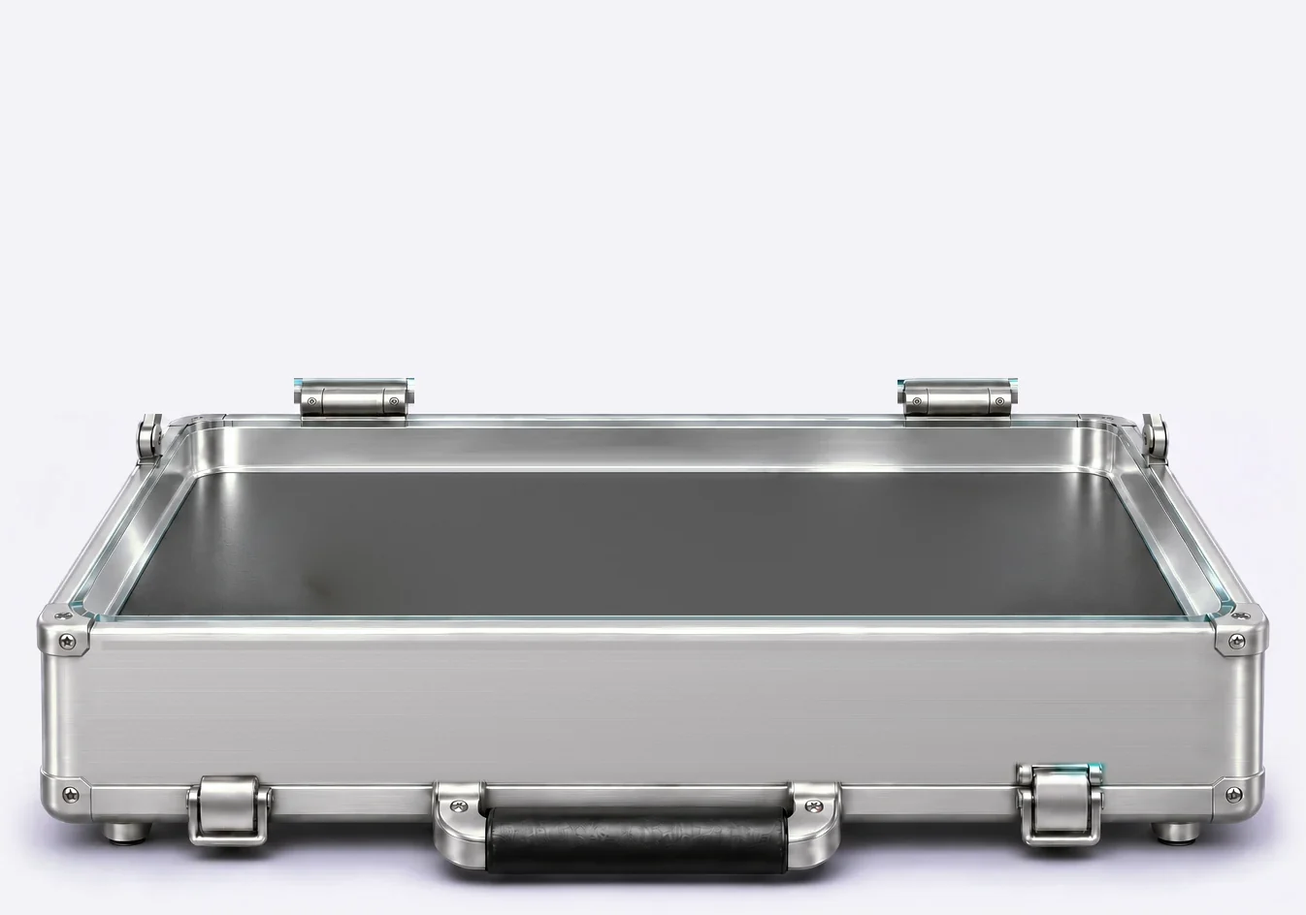
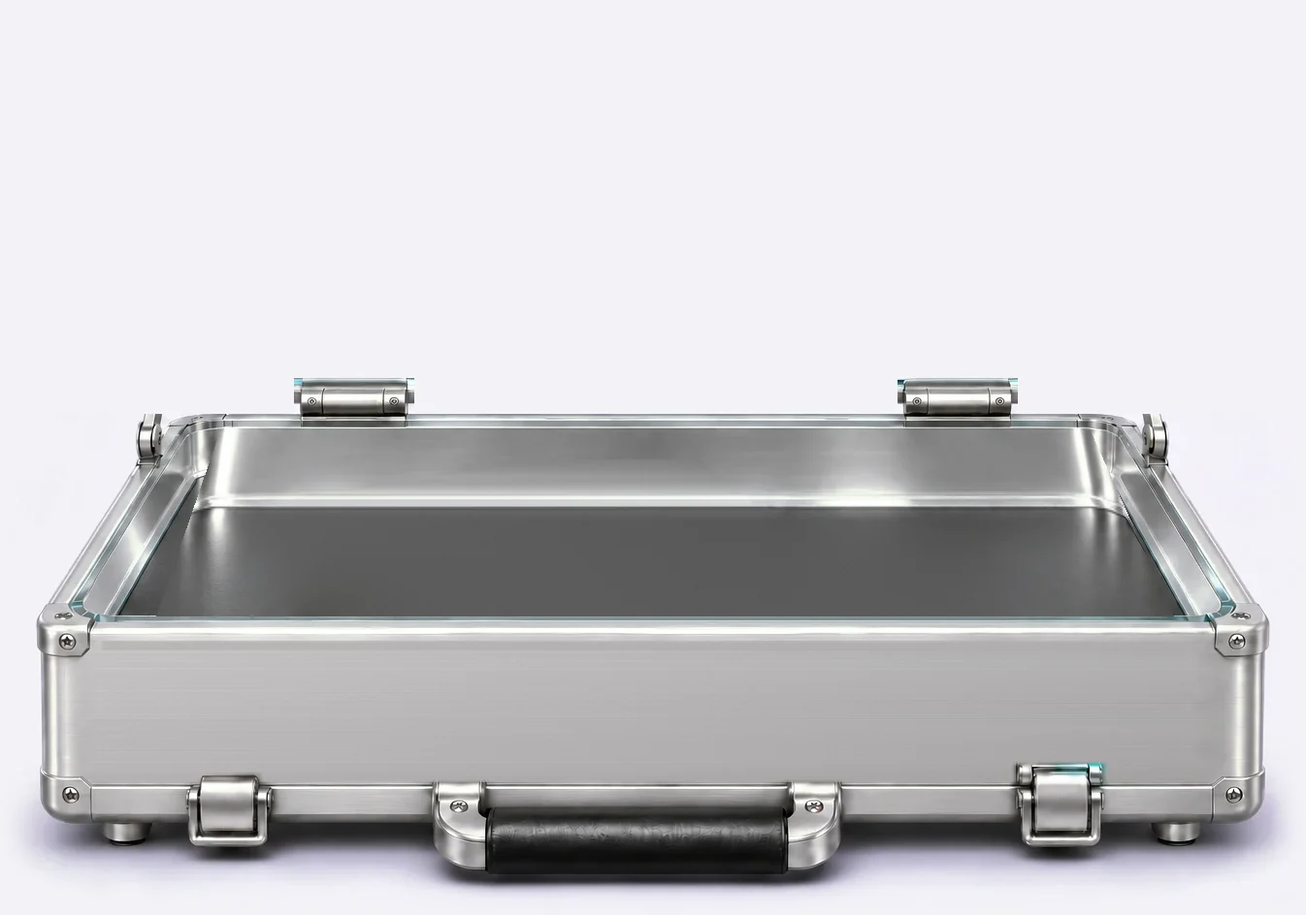
for-influencers calculator: a deeper tray, the notes lie low in it
Claude-Session: https://claude.ai/code/session_01JhZ5DB5vxLeXKkYquUUDqb

Changed region(s): [[0.1248, 0.4608, 0.8737, 0.6758]]

diff --git a/site/for-influencers/index.html b/site/for-influencers/index.html
@@ -1022,7 +1022,7 @@ html.tq-mnav-on .tq-lfab { opacity: 0; pointer-events: none; transform: scale(.8
   background: linear-gradient(105deg, rgba(255,255,255,0) 35%, rgba(255,255,255,.55) 50%, rgba(255,255,255,0) 65%) -120% 0 / 60% 100% no-repeat; mix-blend-mode: screen; }
 .inf-calc.is-armed.is-open .inf-case2__scene::after { animation: inf-case2-glint 1.1s ease-out 1s both; }
 @keyframes inf-case2-glint { 0% { opacity: 1; background-position: -120% 0; } 100% { opacity: 0; background-position: 260% 0; } }
-.inf-case2__floor { position: absolute; inset: 0; pointer-events: none; }
+.inf-case2__floor { position: absolute; inset: 0; pointer-events: none; clip-path: inset(0 0 32.733% 0); }
 .inf-calc__stack { position: absolute; width: 28.67%; height: auto; opacity: 0; transform: translateY(-70%); filter: drop-shadow(0 .45cqw .5cqw rgba(0,0,0,.45));
   transition: transform .6s cubic-bezier(.3,1.35,.5,1), opacity .25s ease; }
 .inf-calc__stack.is-on { opacity: 1; transform: none; }
@@ -1591,8 +1591,8 @@ html.tq-mnav-on .tq-lfab { opacity: 0; pointer-events: none; transform: scale(.8
     <!-- Earnings calculator (owner's design, November 2026: tools/influencers/numbers-src/case2-*.webp; it replaced the
          glass-case calculator): a metal briefcase with a glass lid, closed at first; when the block comes into view its
          lid lifts (the closed lid folds up to its hinges, the standing one unfolds from them) and the notes drop in, one
-         stack per ~67 clients, more as the slider goes up, spread over the floor: two layers, then a third on the
-         front rows only (nothing above the back wall) (tools/influencers/case2.py makes the layers and the stack).
+         stack per ~67 clients, more as the slider goes up, spread over the floor of a deep tray: two layers, then a
+         third on the front rows only; the front row partly behind the front wall (tools/influencers/case2.py makes the layers and the stack).
          On its front face the live controls (orbit.js) in the design's light-metal look, the slider's knob softly
          glowing. About three quarters of a screen tall. Phones: the case, then the controls as a card under it. -->
     <section id="calc" class="inf-calc" data-calc-case data-case2 data-screen-label="Earnings calculator">
@@ -1600,9 +1600,9 @@ html.tq-mnav-on .tq-lfab { opacity: 0; pointer-events: none; transform: scale(.8
         <h2 class="inf-calc__h2 tq-h2" data-fitw>How much could you <span class="inf-calc__red">earn?</span></h2>
         <div class="inf-calc__case">
           <div class="inf-case2__scene">
-            <img class="inf-case2__base" src="../assets/influencers/case2-base-1346.webp?v=217dc8d227" srcset="../assets/influencers/case2-base-900.webp?v=546f27cba2 900w, ../assets/influencers/case2-base-1346.webp?v=217dc8d227 1346w" sizes="(max-width: 1280px) 100vw, 1136px" width="1346" height="944" alt="A metal briefcase with a glass lid, stacks of notes inside" loading="lazy" decoding="async">
+            <img class="inf-case2__base" src="../assets/influencers/case2-base-1346.webp?v=8cc328df33" srcset="../assets/influencers/case2-base-900.webp?v=d83be4ee6a 900w, ../assets/influencers/case2-base-1346.webp?v=8cc328df33 1346w" sizes="(max-width: 1280px) 100vw, 1136px" width="1346" height="944" alt="A metal briefcase with a glass lid, stacks of notes inside" loading="lazy" decoding="async">
             <img class="inf-case2__lid" src="../assets/influencers/case2-lid-1346.webp?v=b988e5b719" srcset="../assets/influencers/case2-lid-900.webp?v=1c4f2ea3fc 900w, ../assets/influencers/case2-lid-1346.webp?v=b988e5b719 1346w" sizes="(max-width: 1280px) 100vw, 1136px" width="1346" height="944" alt="" loading="lazy" decoding="async">
-            <div class="inf-case2__floor" aria-hidden="true"><img class="inf-calc__stack" data-calc-stack src="../assets/influencers/case2-stack.webp?v=aebb4e77f2" width="454" height="128" alt="" loading="lazy" decoding="async" style="left: 51.634%; top: 55.932%; z-index: 30;"><img class="inf-calc__stack" data-calc-stack src="../assets/influencers/case2-stack.webp?v=aebb4e77f2" width="454" height="128" alt="" loading="lazy" decoding="async" style="left: 15.230%; top: 48.517%; z-index: 10;"><img class="inf-calc__stack" data-calc-stack src="../assets/influencers/case2-stack.webp?v=aebb4e77f2" width="454" height="128" alt="" loading="lazy" decoding="async" style="left: 13.744%; top: 55.932%; z-index: 30;"><img class="inf-calc__stack" data-calc-stack src="../assets/influencers/case2-stack.webp?v=aebb4e77f2" width="454" height="128" alt="" loading="lazy" decoding="async" style="left: 49.406%; top: 48.517%; z-index: 10;"><img class="inf-calc__stack" data-calc-stack src="../assets/influencers/case2-stack.webp?v=aebb4e77f2" width="454" height="128" alt="" loading="lazy" decoding="async" style="left: 19.688%; top: 52.225%; z-index: 20;"><img class="inf-calc__stack" data-calc-stack src="../assets/influencers/case2-stack.webp?v=aebb4e77f2" width="454" height="128" alt="" loading="lazy" decoding="async" style="left: 55.349%; top: 52.225%; z-index: 20;"><img class="inf-calc__stack" data-calc-stack src="../assets/influencers/case2-stack.webp?v=aebb4e77f2" width="454" height="128" alt="" loading="lazy" decoding="async" style="left: 51.634%; top: 52.648%; z-index: 31;"><img class="inf-calc__stack" data-calc-stack src="../assets/influencers/case2-stack.webp?v=aebb4e77f2" width="454" height="128" alt="" loading="lazy" decoding="async" style="left: 15.230%; top: 45.233%; z-index: 11;"><img class="inf-calc__stack" data-calc-stack src="../assets/influencers/case2-stack.webp?v=aebb4e77f2" width="454" height="128" alt="" loading="lazy" decoding="async" style="left: 13.744%; top: 52.648%; z-index: 31;"><img class="inf-calc__stack" data-calc-stack src="../assets/influencers/case2-stack.webp?v=aebb4e77f2" width="454" height="128" alt="" loading="lazy" decoding="async" style="left: 55.349%; top: 48.941%; z-index: 21;"><img class="inf-calc__stack" data-calc-stack src="../assets/influencers/case2-stack.webp?v=aebb4e77f2" width="454" height="128" alt="" loading="lazy" decoding="async" style="left: 49.406%; top: 45.233%; z-index: 11;"><img class="inf-calc__stack" data-calc-stack src="../assets/influencers/case2-stack.webp?v=aebb4e77f2" width="454" height="128" alt="" loading="lazy" decoding="async" style="left: 19.688%; top: 48.941%; z-index: 21;"><img class="inf-calc__stack" data-calc-stack src="../assets/influencers/case2-stack.webp?v=aebb4e77f2" width="454" height="128" alt="" loading="lazy" decoding="async" style="left: 51.634%; top: 49.364%; z-index: 32;"><img class="inf-calc__stack" data-calc-stack src="../assets/influencers/case2-stack.webp?v=aebb4e77f2" width="454" height="128" alt="" loading="lazy" decoding="async" style="left: 13.744%; top: 49.364%; z-index: 32;"><img class="inf-calc__stack" data-calc-stack src="../assets/influencers/case2-stack.webp?v=aebb4e77f2" width="454" height="128" alt="" loading="lazy" decoding="async" style="left: 55.349%; top: 45.657%; z-index: 22;"></div>
+            <div class="inf-case2__floor" aria-hidden="true"><img class="inf-calc__stack" data-calc-stack src="../assets/influencers/case2-stack.webp?v=aebb4e77f2" width="454" height="128" alt="" loading="lazy" decoding="async" style="left: 51.634%; top: 58.157%; z-index: 30;"><img class="inf-calc__stack" data-calc-stack src="../assets/influencers/case2-stack.webp?v=aebb4e77f2" width="454" height="128" alt="" loading="lazy" decoding="async" style="left: 15.230%; top: 52.966%; z-index: 10;"><img class="inf-calc__stack" data-calc-stack src="../assets/influencers/case2-stack.webp?v=aebb4e77f2" width="454" height="128" alt="" loading="lazy" decoding="async" style="left: 13.744%; top: 58.157%; z-index: 30;"><img class="inf-calc__stack" data-calc-stack src="../assets/influencers/case2-stack.webp?v=aebb4e77f2" width="454" height="128" alt="" loading="lazy" decoding="async" style="left: 49.406%; top: 52.966%; z-index: 10;"><img class="inf-calc__stack" data-calc-stack src="../assets/influencers/case2-stack.webp?v=aebb4e77f2" width="454" height="128" alt="" loading="lazy" decoding="async" style="left: 19.688%; top: 55.614%; z-index: 20;"><img class="inf-calc__stack" data-calc-stack src="../assets/influencers/case2-stack.webp?v=aebb4e77f2" width="454" height="128" alt="" loading="lazy" decoding="async" style="left: 55.349%; top: 55.614%; z-index: 20;"><img class="inf-calc__stack" data-calc-stack src="../assets/influencers/case2-stack.webp?v=aebb4e77f2" width="454" height="128" alt="" loading="lazy" decoding="async" style="left: 51.634%; top: 54.873%; z-index: 31;"><img class="inf-calc__stack" data-calc-stack src="../assets/influencers/case2-stack.webp?v=aebb4e77f2" width="454" height="128" alt="" loading="lazy" decoding="async" style="left: 15.230%; top: 49.682%; z-index: 11;"><img class="inf-calc__stack" data-calc-stack src="../assets/influencers/case2-stack.webp?v=aebb4e77f2" width="454" height="128" alt="" loading="lazy" decoding="async" style="left: 13.744%; top: 54.873%; z-index: 31;"><img class="inf-calc__stack" data-calc-stack src="../assets/influencers/case2-stack.webp?v=aebb4e77f2" width="454" height="128" alt="" loading="lazy" decoding="async" style="left: 55.349%; top: 52.331%; z-index: 21;"><img class="inf-calc__stack" data-calc-stack src="../assets/influencers/case2-stack.webp?v=aebb4e77f2" width="454" height="128" alt="" loading="lazy" decoding="async" style="left: 49.406%; top: 49.682%; z-index: 11;"><img class="inf-calc__stack" data-calc-stack src="../assets/influencers/case2-stack.webp?v=aebb4e77f2" width="454" height="128" alt="" loading="lazy" decoding="async" style="left: 19.688%; top: 52.331%; z-index: 21;"><img class="inf-calc__stack" data-calc-stack src="../assets/influencers/case2-stack.webp?v=aebb4e77f2" width="454" height="128" alt="" loading="lazy" decoding="async" style="left: 51.634%; top: 51.589%; z-index: 32;"><img class="inf-calc__stack" data-calc-stack src="../assets/influencers/case2-stack.webp?v=aebb4e77f2" width="454" height="128" alt="" loading="lazy" decoding="async" style="left: 13.744%; top: 51.589%; z-index: 32;"><img class="inf-calc__stack" data-calc-stack src="../assets/influencers/case2-stack.webp?v=aebb4e77f2" width="454" height="128" alt="" loading="lazy" decoding="async" style="left: 55.349%; top: 49.047%; z-index: 22;"></div>
             <img class="inf-case2__shut" src="../assets/influencers/case2-shut-1346.webp?v=e4b7aca74a" srcset="../assets/influencers/case2-shut-900.webp?v=bfddbb0865 900w, ../assets/influencers/case2-shut-1346.webp?v=e4b7aca74a 1346w" sizes="(max-width: 1280px) 100vw, 1136px" width="1346" height="944" alt="" loading="lazy" decoding="async">
           </div>
           <div class="inf-calc__plate">

diff --git a/tools/i18n/influencers.html b/tools/i18n/influencers.html
@@ -258,8 +258,8 @@
     <!-- Earnings calculator (owner's design, November 2026: tools/influencers/numbers-src/case2-*.webp; it replaced the
          glass-case calculator): a metal briefcase with a glass lid, closed at first; when the block comes into view its
          lid lifts (the closed lid folds up to its hinges, the standing one unfolds from them) and the notes drop in, one
-         stack per ~67 clients, more as the slider goes up, spread over the floor: two layers, then a third on the
-         front rows only (nothing above the back wall) (tools/influencers/case2.py makes the layers and the stack).
+         stack per ~67 clients, more as the slider goes up, spread over the floor of a deep tray: two layers, then a
+         third on the front rows only; the front row partly behind the front wall (tools/influencers/case2.py makes the layers and the stack).
          On its front face the live controls (orbit.js) in the design's light-metal look, the slider's knob softly
          glowing. About three quarters of a screen tall. Phones: the case, then the controls as a card under it. -->
     <section id="calc" class="inf-calc" data-calc-case data-case2 data-screen-label="Earnings calculator">
@@ -269,7 +269,7 @@
           <div class="inf-case2__scene">
             <img class="inf-case2__base" src="{{root}}assets/influencers/case2-base-1346.webp" srcset="{{root}}assets/influencers/case2-base-900.webp 900w, {{root}}assets/influencers/case2-base-1346.webp 1346w" sizes="(max-width: 1280px) 100vw, 1136px" width="1346" height="944" alt="{{@inf.calc.alt}}" loading="lazy" decoding="async">
             <img class="inf-case2__lid" src="{{root}}assets/influencers/case2-lid-1346.webp" srcset="{{root}}assets/influencers/case2-lid-900.webp 900w, {{root}}assets/influencers/case2-lid-1346.webp 1346w" sizes="(max-width: 1280px) 100vw, 1136px" width="1346" height="944" alt="" loading="lazy" decoding="async">
-            <div class="inf-case2__floor" aria-hidden="true"><img class="inf-calc__stack" data-calc-stack src="{{root}}assets/influencers/case2-stack.webp" width="454" height="128" alt="" loading="lazy" decoding="async" style="left: 51.634%; top: 55.932%; z-index: 30;"><img class="inf-calc__stack" data-calc-stack src="{{root}}assets/influencers/case2-stack.webp" width="454" height="128" alt="" loading="lazy" decoding="async" style="left: 15.230%; top: 48.517%; z-index: 10;"><img class="inf-calc__stack" data-calc-stack src="{{root}}assets/influencers/case2-stack.webp" width="454" height="128" alt="" loading="lazy" decoding="async" style="left: 13.744%; top: 55.932%; z-index: 30;"><img class="inf-calc__stack" data-calc-stack src="{{root}}assets/influencers/case2-stack.webp" width="454" height="128" alt="" loading="lazy" decoding="async" style="left: 49.406%; top: 48.517%; z-index: 10;"><img class="inf-calc__stack" data-calc-stack src="{{root}}assets/influencers/case2-stack.webp" width="454" height="128" alt="" loading="lazy" decoding="async" style="left: 19.688%; top: 52.225%; z-index: 20;"><img class="inf-calc__stack" data-calc-stack src="{{root}}assets/influencers/case2-stack.webp" width="454" height="128" alt="" loading="lazy" decoding="async" style="left: 55.349%; top: 52.225%; z-index: 20;"><img class="inf-calc__stack" data-calc-stack src="{{root}}assets/influencers/case2-stack.webp" width="454" height="128" alt="" loading="lazy" decoding="async" style="left: 51.634%; top: 52.648%; z-index: 31;"><img class="inf-calc__stack" data-calc-stack src="{{root}}assets/influencers/case2-stack.webp" width="454" height="128" alt="" loading="lazy" decoding="async" style="left: 15.230%; top: 45.233%; z-index: 11;"><img class="inf-calc__stack" data-calc-stack src="{{root}}assets/influencers/case2-stack.webp" width="454" height="128" alt="" loading="lazy" decoding="async" style="left: 13.744%; top: 52.648%; z-index: 31;"><img class="inf-calc__stack" data-calc-stack src="{{root}}assets/influencers/case2-stack.webp" width="454" height="128" alt="" loading="lazy" decoding="async" style="left: 55.349%; top: 48.941%; z-index: 21;"><img class="inf-calc__stack" data-calc-stack src="{{root}}assets/influencers/case2-stack.webp" width="454" height="128" alt="" loading="lazy" decoding="async" style="left: 49.406%; top: 45.233%; z-index: 11;"><img class="inf-calc__stack" data-calc-stack src="{{root}}assets/influencers/case2-stack.webp" width="454" height="128" alt="" loading="lazy" decoding="async" style="left: 19.688%; top: 48.941%; z-index: 21;"><img class="inf-calc__stack" data-calc-stack src="{{root}}assets/influencers/case2-stack.webp" width="454" height="128" alt="" loading="lazy" decoding="async" style="left: 51.634%; top: 49.364%; z-index: 32;"><img class="inf-calc__stack" data-calc-stack src="{{root}}assets/influencers/case2-stack.webp" width="454" height="128" alt="" loading="lazy" decoding="async" style="left: 13.744%; top: 49.364%; z-index: 32;"><img class="inf-calc__stack" data-calc-stack src="{{root}}assets/influencers/case2-stack.webp" width="454" height="128" alt="" loading="lazy" decoding="async" style="left: 55.349%; top: 45.657%; z-index: 22;"></div>
+            <div class="inf-case2__floor" aria-hidden="true"><img class="inf-calc__stack" data-calc-stack src="{{root}}assets/influencers/case2-stack.webp" width="454" height="128" alt="" loading="lazy" decoding="async" style="left: 51.634%; top: 58.157%; z-index: 30;"><img class="inf-calc__stack" data-calc-stack src="{{root}}assets/influencers/case2-stack.webp" width="454" height="128" alt="" loading="lazy" decoding="async" style="left: 15.230%; top: 52.966%; z-index: 10;"><img class="inf-calc__stack" data-calc-stack src="{{root}}assets/influencers/case2-stack.webp" width="454" height="128" alt="" loading="lazy" decoding="async" style="left: 13.744%; top: 58.157%; z-index: 30;"><img class="inf-calc__stack" data-calc-stack src="{{root}}assets/influencers/case2-stack.webp" width="454" height="128" alt="" loading="lazy" decoding="async" style="left: 49.406%; top: 52.966%; z-index: 10;"><img class="inf-calc__stack" data-calc-stack src="{{root}}assets/influencers/case2-stack.webp" width="454" height="128" alt="" loading="lazy" decoding="async" style="left: 19.688%; top: 55.614%; z-index: 20;"><img class="inf-calc__stack" data-calc-stack src="{{root}}assets/influencers/case2-stack.webp" width="454" height="128" alt="" loading="lazy" decoding="async" style="left: 55.349%; top: 55.614%; z-index: 20;"><img class="inf-calc__stack" data-calc-stack src="{{root}}assets/influencers/case2-stack.webp" width="454" height="128" alt="" loading="lazy" decoding="async" style="left: 51.634%; top: 54.873%; z-index: 31;"><img class="inf-calc__stack" data-calc-stack src="{{root}}assets/influencers/case2-stack.webp" width="454" height="128" alt="" loading="lazy" decoding="async" style="left: 15.230%; top: 49.682%; z-index: 11;"><img class="inf-calc__stack" data-calc-stack src="{{root}}assets/influencers/case2-stack.webp" width="454" height="128" alt="" loading="lazy" decoding="async" style="left: 13.744%; top: 54.873%; z-index: 31;"><img class="inf-calc__stack" data-calc-stack src="{{root}}assets/influencers/case2-stack.webp" width="454" height="128" alt="" loading="lazy" decoding="async" style="left: 55.349%; top: 52.331%; z-index: 21;"><img class="inf-calc__stack" data-calc-stack src="{{root}}assets/influencers/case2-stack.webp" width="454" height="128" alt="" loading="lazy" decoding="async" style="left: 49.406%; top: 49.682%; z-index: 11;"><img class="inf-calc__stack" data-calc-stack src="{{root}}assets/influencers/case2-stack.webp" width="454" height="128" alt="" loading="lazy" decoding="async" style="left: 19.688%; top: 52.331%; z-index: 21;"><img class="inf-calc__stack" data-calc-stack src="{{root}}assets/influencers/case2-stack.webp" width="454" height="128" alt="" loading="lazy" decoding="async" style="left: 51.634%; top: 51.589%; z-index: 32;"><img class="inf-calc__stack" data-calc-stack src="{{root}}assets/influencers/case2-stack.webp" width="454" height="128" alt="" loading="lazy" decoding="async" style="left: 13.744%; top: 51.589%; z-index: 32;"><img class="inf-calc__stack" data-calc-stack src="{{root}}assets/influencers/case2-stack.webp" width="454" height="128" alt="" loading="lazy" decoding="async" style="left: 55.349%; top: 49.047%; z-index: 22;"></div>
             <img class="inf-case2__shut" src="{{root}}assets/influencers/case2-shut-1346.webp" srcset="{{root}}assets/influencers/case2-shut-900.webp 900w, {{root}}assets/influencers/case2-shut-1346.webp 1346w" sizes="(max-width: 1280px) 100vw, 1136px" width="1346" height="944" alt="" loading="lazy" decoding="async">
           </div>
           <div class="inf-calc__plate">

diff --git a/site/assets/css/influencers.css b/site/assets/css/influencers.css
@@ -196,9 +196,10 @@
 @keyframes inf-case2-glint { 0% { opacity: 1; background-position: -120% 0; } 100% { opacity: 0; background-position: 260% 0; } }
 /* the notes: each stack in its place (left/top in % of the frame): .85 of the design's stack, three rows over the whole
    floor, two stacks a row, then a second layer, then a third on the front and middle rows only (owner's wish: spread
-   out, nothing over the back wall; and then 50% more notes);
+   out, nothing over the back wall; and then 50% more notes). The tray is drawn deeper (case2.py: the back wall 40px
+   taller, the floor lower), the stacks on its floor, the front row's feet hidden by the front wall;
    the back row behind, the ones on top above */
-.inf-case2__floor { position: absolute; inset: 0; pointer-events: none; }
+.inf-case2__floor { position: absolute; inset: 0; pointer-events: none; clip-path: inset(0 0 32.733% 0); }   /* nothing below the glass lip (y 715 of 944): the front row partly behind the front wall */
 .inf-calc__stack { position: absolute; width: 28.67%; height: auto; opacity: 0; transform: translateY(-70%); filter: drop-shadow(0 .45cqw .5cqw rgba(0,0,0,.45));
   transition: transform .6s cubic-bezier(.3,1.35,.5,1), opacity .25s ease; }
 .inf-calc__stack.is-on { opacity: 1; transform: none; }

diff --git a/tools/influencers/case2.py b/tools/influencers/case2.py
@@ -157,6 +157,25 @@ ImageDraw.Draw(sm).polygon(dst, fill=255)
 sm = sm.filter(ImageFilter.GaussianBlur(.8))
 shut = np.dstack([np.asarray(shut).astype(float), np.asarray(sm).astype(float)])
 
+# a deeper tray (owner's wish: the notes, up to three layers, sit low enough for the lid to shut). Inside the
+# trapezoid between the floor's side edges (extended up to the back rim's foot, y 522; their lines: x = 305 - .346 (y -
+# 572) on the left, 1240 + .449 (y - 572) on the right) down to the glass lip (715): the back wall 40px taller (its 50
+# rows drawn on 90), the floor 40px further down (its front 40 rows behind the front wall). Each point maps along the
+# trapezoid's own width, so its sides stay where they are; the rims, the side walls and all else stay as drawn.
+TY0, TY1, WALL, DEEPEN = 522, 715, 50, 40
+Lx = lambda y: 305 - .346 * (y - 572)
+Rx = lambda y: 1240 + .449 * (y - 572)
+src = base.copy()
+for y in range(TY0, TY1 + 1):
+    ys_ = TY0 + (y - TY0) * WALL / (WALL + DEEPEN) if y < TY0 + WALL + DEEPEN else y - DEEPEN
+    l, r = Lx(y), Rx(y)
+    xa = np.arange(int(np.ceil(l)), int(np.floor(r)) + 1)
+    u = (xa - l) / (r - l)
+    xs_ = Lx(ys_) + u * (Rx(ys_) - Lx(ys_))
+    y0i = int(np.floor(ys_)); fy = ys_ - y0i
+    x0i = np.floor(xs_).astype(int); fx = (xs_ - x0i)[:, None]
+    row = lambda yy: src[yy, x0i] * (1 - fx) + src[yy, x0i + 1] * fx
+    base[y, xa] = row(y0i) * (1 - fy) + row(y0i + 1) * fy
 x0, y0, x1, y1 = CROP
 # the base's edges eased into the page's colour (the case is well inside them): the last rows and columns of the crop
 ew = np.ones((H, W))

diff --git a/README.md b/README.md
@@ -292,7 +292,7 @@ HTTPS (Let's Encrypt) Netlify включит сам.
 
 **Блок «Three numbers»** (с 25 ноября 2026 — светлый стеклянный вариант по макету владельца, `tools/influencers/numbers-src/glass-design.webp`; прежний титановый с цифрами-туманностями заменён, он есть в истории git) — `#numbers`, после «Next star». Светлая карточка (#f9f8fd, мягкая тень), «THREE NUMBERS. / ZERO FINE PRINT.» и три стеклянные строки-пилюли: 87% — Revenue share, ∞ — Sub-partners, 365 — Paydays a year. **Стекло — из самого макета:** `python3 tools/influencers/nums_glass.py` вырезает левый край второй строки макета, зеркалит его вправо и продолжает середину его последним столбцом (без швов) → `nums-row.webp`, которая кладётся как 9-slice `border-image`, а её ободок масштабируется с высотой строки (`--rh`). Цифры — живой текст шрифтом заголовков, залитый красным шлифованным металлом (`nums-red.webp`, рисует тот же скрипт), с тёмно-красным торцом и бликом; ∞ — лемниската из SVG-маски (`nums-loop-*.svg`). **Раскрытие:** изначально все строки одинаковые, видно только номер и название; при наведении мыши (или фокусе с клавиатуры) строка плавно растёт (`--rh` — зарегистрированная длина, анимируется), цифра вместе с ней, и выплывает пояснение (of everything your audience brings in / build a team with no ceiling / paid out every single day). На телефонах наведения нет — строка раскрывается по нажатию, закрывается повторным нажатием на неё или нажатием в любом другом месте страницы (открыта одна; `orbit.js`), цифра там не растёт (узкая колонка), растёт только строка под пояснение. `aria-expanded` следует за состоянием. **Без своей карточки** (по просьбе владельца): строки стоят прямо на фоне страницы, рамка `nums-row.webp` — только стекло: вне капсулы полностью прозрачная, внутри каждый пиксель переведён в белый/чёрный с прозрачностью относительно фона страницы (лицо капсулы — прозрачное стекло, ободок и блики остаются), никаких светлых прямоугольников вокруг. **Подсветка выбранной строки:** насыщенное красное свечение на её левом и правом краю (`.inf-nums__row::after`), плавно появляется на строке под мышью / открытой нажатием и гаснет на прежней. Тексты — `inf.nums.*`, стили — `.inf-nums*` в `influencers.css`.
 
-**Калькулятор «How much could you earn?» — металлический кейс со стеклянной крышкой** (макет владельца, ноябрь 2026, `tools/influencers/numbers-src/case2-open.webp` и `case2-closed.webp`) — сразу после стеклянных строк «Three numbers», `#calc`. Он заменил прежний калькулятор в стеклянном чемодане (тот удалён по просьбе владельца вместе с картинками и `calc_case.py`). Сначала крышка закрыта; когда блок больше чем наполовину на экране, крышка открывается один раз: закрытая крышка складывается к петлям, стоячая стеклянная поднимается от них с лёгким отскоком, по стеклу пробегает блик, и на дно падают пачки денег. **Пачки живые:** одна пачка из макета вырезана (`case2-stack.webp`), обе пачки стёрты с дна кейса (дно и задняя стенка восстановлены, их отражение в стеклянной кромке тоже), пачки чуть меньше, чем в макете (0,85), и на дне 15 мест: три ряда по всему дну, по две пачки в ряд, потом второй слой, потом третий — только в переднем и среднем рядах, так что над задней стенкой ничего не торчит и видно, что крышка закроется (по просьбе владельца; потом владелец попросил денег на 50% больше); видно по пачке на каждые ~67 клиентов (3 — при 181; 15 — при 1000). Двигаешь ползунок вверх — новые пачки по очереди падают с отскоком, вниз — лишние исчезают. **Ручка ползунка мягко светится красным и пульсирует** (по просьбе владельца — притягивает взгляд; при «уменьшении движения» свечение ровное). Без JS кейс открыт; при «уменьшении движения» открывается сразу, пачки появляются без падения. Картинки — `python3 tools/influencers/case2.py`: слои одного кадра 1346 × 944 — открытый кейс без крышки и без денег (`case2-base-*`, элементы с передней панели стёрты, края кадра растворяются в фоне страницы — без шва под кейсом), стоячая крышка (`case2-lid-*`, прозрачный фон), закрытая крышка, натянутая из макета закрытого кейса (`case2-shut-*`), и пачка; фон выровнен под страницу, цвет металла не тронут. На передней панели — живые элементы: «Clients you refer», счётчик из четырёх барабанов, ползунок 5–1000 (по умолчанию 181), сумма в красном окне, Day / Month / Year; в светлом металле макета: тёмные подписи ("Clients you refer" жирнее обычного 700: тонкая обводка тем же цветом), серебряные кнопки; подпись, счётчик и ползунок чуть ниже, чем в макете (по просьбе владельца). Размеры на панели — в px макета панели (1118 в ширину) через container units, всё масштабируется вместе с кейсом. Высота блока — около 75% экрана на компьютере (кейс = 80% высоты экрана минус заголовок) и около 80% на телефоне (iPhone 13): там кейс во всю ширину, элементы — серебряной карточкой под ним. **Расчёт — как на главной:** клиенты × лоты на клиента в месяц × $7,50 за лот; день — 1/30 месяца, год — 12 месяцев. **Лотов на клиента — 130 в месяц: это стартовое значение калькулятора главной, а не подтверждённая средняя для клиентов блогеров** — поменять: `LOTS` в `orbit.js` (блок калькулятора). Тексты — `inf.calc.*`, стили — `.inf-calc*` и `.inf-case2*` в `influencers.css`.
+**Калькулятор «How much could you earn?» — металлический кейс со стеклянной крышкой** (макет владельца, ноябрь 2026, `tools/influencers/numbers-src/case2-open.webp` и `case2-closed.webp`) — сразу после стеклянных строк «Three numbers», `#calc`. Он заменил прежний калькулятор в стеклянном чемодане (тот удалён по просьбе владельца вместе с картинками и `calc_case.py`). Сначала крышка закрыта; когда блок больше чем наполовину на экране, крышка открывается один раз: закрытая крышка складывается к петлям, стоячая стеклянная поднимается от них с лёгким отскоком, по стеклу пробегает блик, и на дно падают пачки денег. **Пачки живые:** одна пачка из макета вырезана (`case2-stack.webp`), обе пачки стёрты с дна кейса (дно и задняя стенка восстановлены, их отражение в стеклянной кромке тоже), пачки чуть меньше, чем в макете (0,85), и на дне 15 мест: три ряда по всему дну, по две пачки в ряд, потом второй слой, потом третий — только в переднем и среднем рядах, так что над задней стенкой ничего не торчит и видно, что крышка закроется (по просьбе владельца; потом владелец попросил денег на 50% больше); видно по пачке на каждые ~67 клиентов (3 — при 181; 15 — при 1000). **Углубление кейса сделано глубже** (по просьбе владельца, чтобы даже три слоя денег лежали ниже краёв): в `case2.py` внутренность кейса между боковыми краями дна перерисована — задняя стенка на 40px выше, дно на столько же ниже; рамки, боковые стенки и всё снаружи как в макете. Пачки стоят на новом дне, передний ряд частично скрыт передней стенкой (всё, что ниже стеклянной кромки, обрезается: `clip-path` у `.inf-case2__floor`). Размер блока не изменился. Двигаешь ползунок вверх — новые пачки по очереди падают с отскоком, вниз — лишние исчезают. **Ручка ползунка мягко светится красным и пульсирует** (по просьбе владельца — притягивает взгляд; при «уменьшении движения» свечение ровное). Без JS кейс открыт; при «уменьшении движения» открывается сразу, пачки появляются без падения. Картинки — `python3 tools/influencers/case2.py`: слои одного кадра 1346 × 944 — открытый кейс без крышки и без денег (`case2-base-*`, элементы с передней панели стёрты, края кадра растворяются в фоне страницы — без шва под кейсом), стоячая крышка (`case2-lid-*`, прозрачный фон), закрытая крышка, натянутая из макета закрытого кейса (`case2-shut-*`), и пачка; фон выровнен под страницу, цвет металла не тронут. На передней панели — живые элементы: «Clients you refer», счётчик из четырёх барабанов, ползунок 5–1000 (по умолчанию 181), сумма в красном окне, Day / Month / Year; в светлом металле макета: тёмные подписи ("Clients you refer" жирнее обычного 700: тонкая обводка тем же цветом), серебряные кнопки; подпись, счётчик и ползунок чуть ниже, чем в макете (по просьбе владельца). Размеры на панели — в px макета панели (1118 в ширину) через container units, всё масштабируется вместе с кейсом. Высота блока — около 75% экрана на компьютере (кейс = 80% высоты экрана минус заголовок) и около 80% на телефоне (iPhone 13): там кейс во всю ширину, элементы — серебряной карточкой под ним. **Расчёт — как на главной:** клиенты × лоты на клиента в месяц × $7,50 за лот; день — 1/30 месяца, год — 12 месяцев. **Лотов на клиента — 130 в месяц: это стартовое значение калькулятора главной, а не подтверждённая средняя для клиентов блогеров** — поменять: `LOTS` в `orbit.js` (блок калькулятора). Тексты — `inf.calc.*`, стили — `.inf-calc*` и `.inf-case2*` в `influencers.css`.
 
 **Блок «Incentive trips»** — четвёртый на странице, после «Three numbers», `#trips`. **С ноября 2026 — по второму дизайну владельца** (`tools/influencers/trips-design.webp`, 1763 × 892): без тёмной карточки, на светлом фоне страницы. Слева живой текст — «Incentive trips» (красным), «THE TRIP IS» / «ON US.» (Syncopate, `tq-h2`), абзац и три строки (Flights and stay — Covered, Yacht day and dinners — Covered, How you qualify — Results, красным); справа — картинка из дизайна: три сторис поездки в Дубай в стеклянных телефонах (приезд в отель, яхта, ужин на закате). Картинку делает `python3 tools/influencers/trips.py` → `site/assets/influencers/trips-{520,780,1040}.webp` (36–99 КБ): вырезает телефоны с полем, фон дизайна (сиреневатый, к краям темнее) выравнивает под ровный фон страницы #f3f2f7 (фон измеряется вокруг телефонов), края картинки на странице плавно растворяются (маска в CSS). «ON US.» — бирюзовый, как в дизайне, и **с анимацией воды из первого варианта** (по просьбе владельца): фото воды (`nums-water-*.webp`) медленно плывёт внутри букв (22 с туда и обратно), поверх — бирюзовый цвет дизайна (`background-blend-mode: color`: вода сохраняет свет и тени). Анимация идёт только пока блок на экране (`orbit.js` ставит `.is-on`), при «уменьшить движение» — стоит; на телефоне ≈20% главного потока в эмуляции iPhone с CPU ×4 (≈5% на реальном). Колонка та же, что у карточек выше; до 900px — текст, под ним картинка во всю ширину. Тексты — `inf.trip.*` в `strings/influencers/en.json`, стили — `.inf-trip*` в `influencers.css`. Первый вариант блока (тёмная карточка со сторис-заглушками, дизайн «Incentive Trips» 7d) заменён; он есть в истории git.
 
